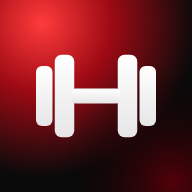
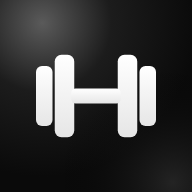
Richer setup, no sideways scrolling in pop-ups, black and white by default
Claude-Session: https://claude.ai/code/session_01JMLcbXwkyHFaM7MnKWjGGr

diff --git a/index.html b/index.html
@@ -352,7 +352,7 @@ button.row { width: 100%; text-align: left; }
 .scanner.open { opacity: 1; }
 .scanner video { position: absolute; inset: 0; width: 100%; height: 100%; object-fit: cover; }
 .scan-frame { position: absolute; left: 9%; right: 9%; top: 34%; height: 20%; border-radius: 22px; border: 2px solid rgb(255 255 255 / .9); box-shadow: 0 0 0 100vmax rgb(0 0 0 / .55); }
-.scan-line { position: absolute; left: 6%; right: 6%; top: 50%; height: 2px; background: linear-gradient(90deg, transparent, #FF2B35, transparent); box-shadow: 0 0 14px #FF2B35; animation: scanline 1.5s ease-in-out infinite alternate; }
+.scan-line { position: absolute; left: 6%; right: 6%; top: 50%; height: 2px; background: linear-gradient(90deg, transparent, var(--acc-d), transparent); box-shadow: 0 0 14px var(--acc-d); animation: scanline 1.5s ease-in-out infinite alternate; }
 @keyframes scanline { from { transform: translateY(-260%); } to { transform: translateY(260%); } }
 .scan-top { position: absolute; top: 0; left: 0; right: 0; z-index: 2; display: flex; align-items: center; justify-content: space-between; padding: calc(env(safe-area-inset-top) + 12px) 16px 12px; }
 .scan-title { font-weight: 700; font-size: 1.125rem; }
@@ -574,6 +574,21 @@ button, a, .chip, .tab { touch-action: manipulation; }
 #toast.has-action { pointer-events: auto; display: flex; align-items: center; gap: 14px; }
 .toast-undo { font-weight: 700; color: var(--accent); padding: 4px 6px; }
 
+/* Keep pop-ups and sheets from sliding sideways */
+.dlg, .sheet-body { overflow-x: hidden; }
+.dlg .field, .nut-inputs > *, .grid2 > *, .grid3 > * { min-width: 0; }
+.dlg input, .dlg select { max-width: 100%; min-width: 0; }
+.dlg input[type="date"], .dlg input[type="time"], .sheet-body input[type="date"], .sheet-body input[type="time"] { width: 100%; -webkit-appearance: none; appearance: none; display: block; }
+/* Black and white theme: no stray red */
+html:root[data-accent="chalk"] { --bad: var(--ink); }
+html:root[data-accent="chalk"] .btn.danger-text, html:root[data-accent="chalk"] .opt.danger { text-decoration: underline; text-underline-offset: 3px; }
+.gchips { display: flex; flex-wrap: wrap; gap: 8px; }
+.gchip { min-height: 46px; padding: 0 18px; border-radius: 999px; border: 1px solid var(--line); background: var(--surface-2); font-weight: 700; font-size: 1rem; transition: background .2s, color .2s, transform .18s var(--ease); }
+.gchip[aria-pressed="true"] { background: var(--accent-grad); color: var(--accent-ink); border-color: transparent; }
+.gchip:active { transform: scale(.95); }
+.gchips.days { gap: 6px; }
+.gchip.day { min-width: 0; flex: 1 1 0; padding: 0 4px; }
+
 @media (prefers-reduced-motion: reduce) {
   *, *::before, *::after { transition-duration: 0s !important; animation-duration: 0s !important; animation-delay: 0s !important; }
   html:root[data-tint="on"] { --amb1: color-mix(in srgb, var(--accent) 40%, transparent); --amb2: color-mix(in srgb, var(--accent) 30%, transparent); --amb3: color-mix(in srgb, var(--accent) 16%, transparent); }
@@ -775,6 +790,8 @@ const STARTERS = [
   { id: 'st-push', name: 'Push', blurb: 'Chest, shoulders and triceps', ex: [['Bench Press (Barbell)', 3, 8, 150, 1], ['Overhead Press (Barbell)', 3, 8, 120], ['Incline Bench Press (Dumbbell)', 3, 10, 90], ['Lateral Raise (Dumbbell)', 3, 12, 60], ['Triceps Pushdown', 3, 12, 60]] },
   { id: 'st-pull', name: 'Pull', blurb: 'Back and biceps', ex: [['Deadlift (Barbell)', 3, 5, 180, 1], ['Pull-up', 3, 8, 120], ['Bent Over Row (Barbell)', 3, 8, 120], ['Face Pull', 3, 15, 60], ['Hammer Curl', 3, 12, 60]] },
   { id: 'st-legs', name: 'Legs', blurb: 'Quads, hamstrings, calves and core', ex: [['Back Squat (Barbell)', 3, 5, 180, 1], ['Romanian Deadlift (Barbell)', 3, 8, 120], ['Leg Press', 3, 10, 120], ['Lying Leg Curl', 3, 12, 90], ['Standing Calf Raise', 4, 12, 60], ['Plank', 3, 60, 60]] },
+  { id: 'st-upper', name: 'Upper', blurb: 'Chest, back, shoulders and arms', ex: [['Bench Press (Barbell)', 3, 8, 150, 1], ['Bent Over Row (Barbell)', 3, 8, 120], ['Overhead Press (Barbell)', 3, 10, 120], ['Lat Pulldown', 3, 10, 90], ['Bicep Curl (Dumbbell)', 3, 12, 60], ['Triceps Pushdown', 3, 12, 60]] },
+  { id: 'st-lower', name: 'Lower', blurb: 'Legs and core', ex: [['Back Squat (Barbell)', 3, 5, 180, 1], ['Romanian Deadlift (Barbell)', 3, 8, 120], ['Leg Press', 3, 10, 120], ['Lying Leg Curl', 3, 12, 90], ['Standing Calf Raise', 4, 12, 60], ['Hanging Leg Raise', 3, 12, 60]] },
   { id: 'st-full', name: 'Full Body', blurb: 'Three big lifts and a plank', ex: [['Back Squat (Barbell)', 3, 5, 150, 1], ['Bench Press (Barbell)', 3, 5, 150], ['Bent Over Row (Barbell)', 3, 8, 120], ['Plank', 3, 45, 60]] },
   { id: 'st-cardio', name: 'Cardio and Core', blurb: 'Treadmill, then abs', ex: [['Treadmill', 1, 1200, 60], ['Hanging Leg Raise', 3, 12, 60], ['Russian Twist', 3, 20, 45], ['Plank', 3, 45, 45]] },
 ];
@@ -1398,7 +1415,7 @@ function viewMore() {
     ${demoN ? `<button class="row" data-act="demo-clear"><div class="row-l">Remove demo data<div class="small muted">${demoN} demo workouts</div></div>${ic('right', 'chev')}</button>` : `<button class="row" data-act="demo-load"><div class="row-l">Load demo data<div class="small muted">Sample workouts to explore</div></div>${ic('right', 'chev')}</button>`}
     <button class="row" data-act="erase"><div class="row-l" style="color:var(--bad)">Erase all data</div></button>
   </div>
-  <p class="muted small foot">Your data stays on this phone. Back up now and then.<br>Version 10</p>`;
+  <p class="muted small foot">Your data stays on this phone. Back up now and then.<br>Version 11</p>`;
 }
 
 // =====================================================================
@@ -2967,31 +2984,54 @@ function maybeOnboard() {
   if (hasData) { S.settings.onboarded = true; commit('settings'); return; }
   openSetup();
 }
-function openSetup() { UI.setup = { step: 0, unit: S.settings.unit, goal: S.settings.goal || '', plan: '' }; renderSetup(); }
+const SETUP_GOALS = [['muscle', 'Build muscle'], ['strength', 'Get stronger'], ['fat', 'Lose fat'], ['gain', 'Gain weight'], ['endurance', 'Improve endurance'], ['tone', 'Tone up'], ['sport', 'Train for a sport'], ['health', 'Stay healthy']];
+const SETUP_PLANS = [
+  ['ppl', 'Push, Pull, Legs', 'Chest and arms, back, then legs', ['st-push', 'st-pull', 'st-legs'], [1, 3, 5]],
+  ['ppl2', 'Push, Pull, Legs twice', 'Each workout twice a week', ['st-push', 'st-pull', 'st-legs'], [1, 2, 3, 4, 5, 6]],
+  ['ul', 'Upper and Lower', 'Upper body, then lower body', ['st-upper', 'st-lower'], [1, 2, 4, 5]],
+  ['full', 'Full Body', 'Everything in each workout', ['st-full'], [1, 3, 5]],
+  ['full2', 'Full Body, short week', 'Two full-body days', ['st-full'], [2, 5]],
+  ['cardio', 'Cardio and Core', 'Treadmill plus abs', ['st-cardio'], [1, 3, 5]],
+  ['own', 'I’ll build my own', 'Start with a blank slate', [], []],
+];
+function openSetup() { UI.setup = { step: 0, unit: S.settings.unit, goals: (S.settings.goals || []).slice(), goalText: S.settings.goalText || '', plan: '', days: [] }; renderSetup(); }
 function renderSetup() {
   const s = UI.setup; if (!s) return; const N = 4;
-  const choice = (act, v, cur, label, sub) => `<button class="choice" data-act="${act}" data-v="${v}" aria-pressed="${cur === v}"><span>${label}${sub ? `<small>${sub}</small>` : ''}</span><span class="pick-mark">${ic('check')}</span></button>`;
+  const choice = (act, v, on, label, sub) => `<button class="choice" data-act="${act}" data-v="${v}" aria-pressed="${on}"><span>${label}${sub ? `<small>${sub}</small>` : ''}</span><span class="pick-mark">${ic('check')}</span></button>`;
   let body = `<div class="setup-dots">${Array.from({ length: N }, (_, i) => `<i class="${i === s.step ? 'on' : ''}"></i>`).join('')}</div>`, foot = '';
+  const nav = (back, next = 'Next') => `<div class="foot-row">${back ? `<button class="btn ghost lg" data-act="setup-back">Back</button>` : ''}<button class="btn primary lg" data-act="setup-next">${next}</button></div>`;
   if (s.step === 0) {
-    body += `<div class="setup-hero">Welcome to Benchmark</div><p class="muted">Track workouts, food and weight in one place. A few quick choices and you're set.</p><h2 class="sec">Units</h2>${choice('setup-unit', 'lb', s.unit, 'Pounds and miles', 'lb, mi, inches')}${choice('setup-unit', 'kg', s.unit, 'Kilograms and kilometers', 'kg, km, centimeters')}`;
-    foot = `<div class="foot-row"><button class="btn primary lg" data-act="setup-next">Next</button></div>`;
+    body += `<div class="setup-hero">Welcome to Benchmark</div><p class="muted">Track workouts, food and weight in one place. A few quick choices and you're set.</p><h2 class="sec">Units</h2>${choice('setup-unit', 'lb', s.unit === 'lb', 'Pounds and miles', 'lb, mi, inches')}${choice('setup-unit', 'kg', s.unit === 'kg', 'Kilograms and kilometers', 'kg, km, centimeters')}`;
+    foot = nav(false);
   } else if (s.step === 1) {
-    body += `<div class="setup-hero">What's your main goal?</div>${choice('setup-goal', 'muscle', s.goal, 'Build muscle')}${choice('setup-goal', 'strength', s.goal, 'Get stronger')}${choice('setup-goal', 'fat', s.goal, 'Lose fat')}${choice('setup-goal', 'health', s.goal, 'Stay healthy and active')}`;
-    foot = `<div class="foot-row"><button class="btn ghost lg" data-act="setup-back">Back</button><button class="btn primary lg" data-act="setup-next">Next</button></div>`;
+    body += `<div class="setup-hero">What are your goals?</div><p class="muted">Pick as many as you like.</p><div class="gchips">${SETUP_GOALS.map(([k, l]) => `<button class="gchip" data-act="setup-goal" data-v="${k}" aria-pressed="${s.goals.includes(k)}">${l}</button>`).join('')}</div>
+      <div class="field"><label class="lbl" for="su-goal">Something else?</label><input class="txt" id="su-goal" value="${esc(s.goalText)}" placeholder="For example, run a 5K or hike a mountain" autocomplete="off"></div>`;
+    foot = nav(true);
   } else if (s.step === 2) {
-    body += `<div class="setup-hero">Pick a starting plan</div><p class="muted">You can change any of it later.</p>${choice('setup-plan', 'ppl', s.plan, 'Push, Pull, Legs', 'Monday, Wednesday and Friday')}${choice('setup-plan', 'full', s.plan, 'Full Body', 'Monday, Wednesday and Friday')}${choice('setup-plan', 'own', s.plan, 'I’ll build my own')}`;
-    foot = `<div class="foot-row"><button class="btn ghost lg" data-act="setup-back">Back</button><button class="btn primary lg" data-act="setup-next">Next</button></div>`;
+    const order = Array.from({ length: 7 }, (_, i) => (i + S.settings.weekStart) % 7); const pl = SETUP_PLANS.find(x => x[0] === s.plan);
+    body += `<div class="setup-hero">Pick a starting plan</div><p class="muted">You can change any of it later.</p>${SETUP_PLANS.map(([k, l, sub, , days]) => choice('setup-plan', k, s.plan === k, l, sub + (days.length ? ` · ${days.length} days a week` : ''))).join('')}
+      ${pl && pl[3].length ? `<h2 class="sec">Training days</h2><div class="gchips days">${order.map(d => `<button class="gchip day" data-act="setup-day" data-v="${d}" aria-pressed="${s.days.includes(d)}" aria-label="${DOW(d)}">${DOW(d).slice(0, 3)}</button>`).join('')}</div><p class="muted small">Workouts rotate through the days you pick.</p>` : ''}`;
+    foot = nav(true);
   } else {
     body += `<div class="setup-hero">Want a food plan?</div><p class="muted">Benchmark can set your daily calories and protein from your age, height and goal weight.</p>`;
     foot = `<div class="foot-row"><button class="btn ghost lg" data-act="setup-finish" data-v="0">Maybe later</button><button class="btn primary lg" data-act="setup-finish" data-v="1">Set it up</button></div>`;
   }
-  openSheet('setup', { title: 'Setup', right: `<button class="btn ghost sm" data-act="setup-finish" data-v="0">Skip</button>`, body, foot });
+  const el = openSheet('setup', { title: 'Setup', right: `<button class="btn ghost sm" data-act="setup-finish" data-v="0">Skip</button>`, body, foot });
+  return el;
+}
+function setupNext() {
+  const s = UI.setup; if (!s) return;
+  if (s.step === 2) { const pl = SETUP_PLANS.find(x => x[0] === s.plan); if (pl && pl[3].length && !s.days.length) { toast('Pick at least one training day'); return; } }
+  s.step = Math.min(3, s.step + 1); renderSetup(); const b = $('#sheet-setup .sheet-body'); if (b) b.scrollTop = 0;
 }
 function finishSetup(thenProfile) {
-  const s = UI.setup; if (!s) return; S.settings.unit = s.unit; if (s.goal) S.settings.goal = s.goal;
-  const add = id => { const r = starterToRoutine(STARTERS.find(x => x.id === id)); S.routines.push(r); return r.id; };
-  if (s.plan === 'ppl') { const ids = ['st-push', 'st-pull', 'st-legs'].map(add); S.settings.schedule = { 1: ids[0], 3: ids[1], 5: ids[2] }; commit('routines'); }
-  if (s.plan === 'full') { const id = add('st-full'); S.settings.schedule = { 1: id, 3: id, 5: id }; commit('routines'); }
+  const s = UI.setup; if (!s) return; S.settings.unit = s.unit; S.settings.goals = s.goals; S.settings.goalText = (s.goalText || '').trim();
+  const pl = SETUP_PLANS.find(x => x[0] === s.plan);
+  if (pl && pl[3].length && s.days.length) {
+    const ids = pl[3].map(id => { const r = starterToRoutine(STARTERS.find(x => x.id === id)); S.routines.push(r); return r.id; });
+    const order = Array.from({ length: 7 }, (_, i) => (i + S.settings.weekStart) % 7).filter(d => s.days.includes(d));
+    const sch = {}; order.forEach((d, i) => { sch[d] = ids[i % ids.length]; }); S.settings.schedule = sch; commit('routines');
+  }
   S.settings.onboarded = true; commit('settings'); applySettings(); UI.setup = null; closeSheet('setup'); renderAll();
   if (thenProfile) setTimeout(openProfile, 380); else toast('You’re all set');
 }
@@ -3284,9 +3324,10 @@ const ACT = {
   'meas-del': el => deleteMeas(el.dataset.d),
   'setup-open': () => openSetup(),
   'setup-unit': el => { UI.setup.unit = el.dataset.v; renderSetup(); },
-  'setup-goal': el => { UI.setup.goal = el.dataset.v; renderSetup(); },
-  'setup-plan': el => { UI.setup.plan = el.dataset.v; renderSetup(); },
-  'setup-next': () => { UI.setup.step = Math.min(3, UI.setup.step + 1); renderSetup(); },
+  'setup-goal': el => { const g = UI.setup.goals, v = el.dataset.v, i = g.indexOf(v); if (i >= 0) g.splice(i, 1); else g.push(v); el.setAttribute('aria-pressed', String(i < 0)); },
+  'setup-plan': el => { const pl = SETUP_PLANS.find(x => x[0] === el.dataset.v); UI.setup.plan = el.dataset.v; UI.setup.days = pl ? pl[4].slice() : []; renderSetup(); },
+  'setup-day': el => { const d = UI.setup.days, v = Number(el.dataset.v), i = d.indexOf(v); if (i >= 0) d.splice(i, 1); else d.push(v); el.setAttribute('aria-pressed', String(i < 0)); },
+  'setup-next': () => setupNext(),
   'setup-back': () => { UI.setup.step = Math.max(0, UI.setup.step - 1); renderSetup(); },
   'setup-finish': el => finishSetup(el.dataset.v === '1'),
   'food-prev': () => { UI.foodDay = shiftDay(UI.foodDay, -1); renderView(); },
@@ -3342,6 +3383,7 @@ document.addEventListener('input', ev => {
   else if (t.id === 'lib-search') { if (UI.lib) { UI.lib.q = t.value; renderLib(); } }
   else if (t.id === 'food-search') { if (UI.fadd) { UI.fadd.q = t.value; renderFoodList(); } }
   else if (t.id === 'g-search') renderSearch(t.value);
+  else if (t.id === 'su-goal') { if (UI.setup) UI.setup.goalText = t.value; }
   else if (t.id === 'rc-name') { if (UI.recipe) UI.recipe.name = t.value; }
   else if (t.id === 'rc-serv') { if (UI.recipe) { UI.recipe.servings = Math.max(1, parseInt(t.value, 10) || 1); const el = $('#rc-per'); if (el) el.innerHTML = recipePerHTML(recipePerServing(UI.recipe)); } }
 });

diff --git a/sw.js b/sw.js
@@ -1,5 +1,5 @@
 // Benchmark offline support. Bump VERSION with each new build.
-const VERSION = 'benchmark-v10';
+const VERSION = 'benchmark-v11';
 const SHELL = ['./', './index.html', './zxing.min.js', './manifest.webmanifest', './icon-192.png', './icon-512.png', './apple-touch-icon.png'];
 self.addEventListener('install', e => { e.waitUntil(caches.open(VERSION).then(c => c.addAll(SHELL.map(u => new Request(u, { cache: 'reload' })))).then(() => self.skipWaiting())); });
 self.addEventListener('activate', e => { e.waitUntil(caches.keys().then(ks => Promise.all(ks.filter(k => !k.startsWith(VERSION)).map(k => caches.delete(k)))).then(() => self.clients.claim())); });
